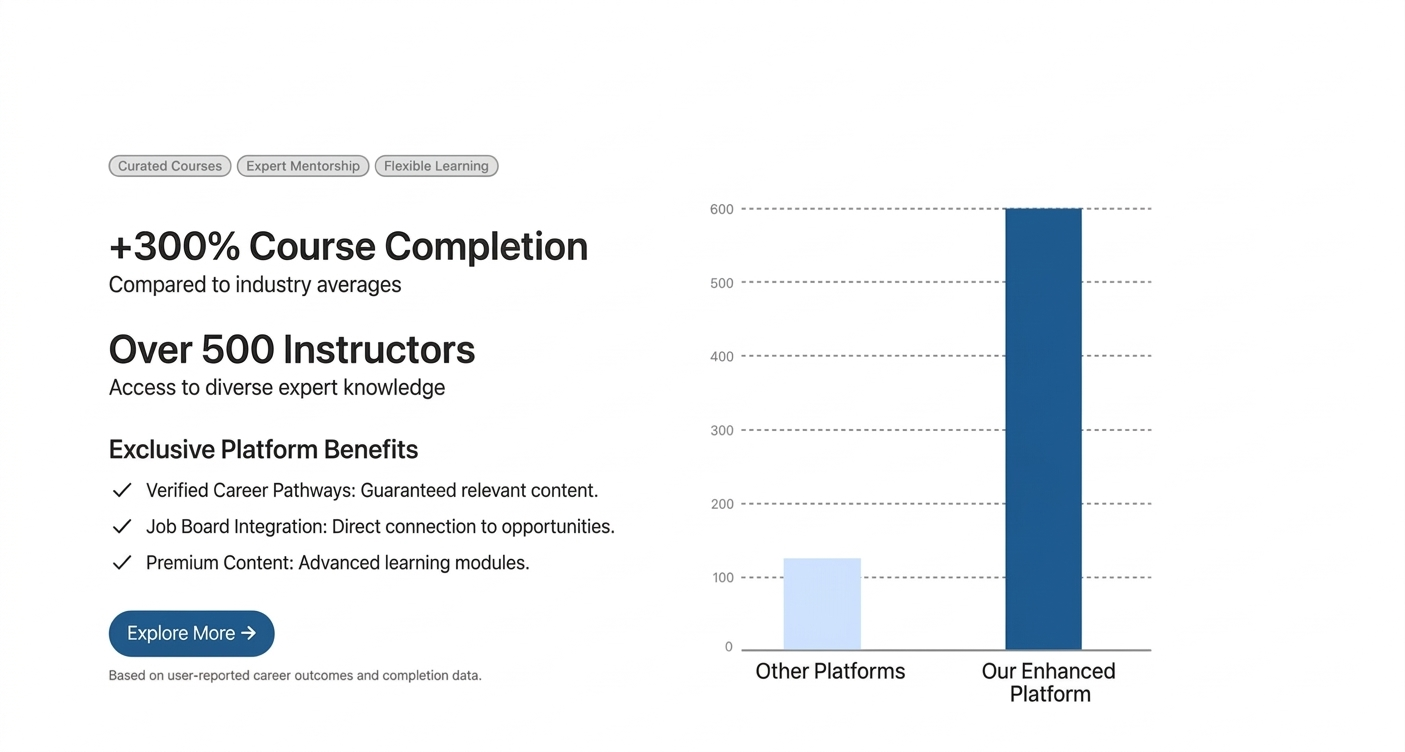
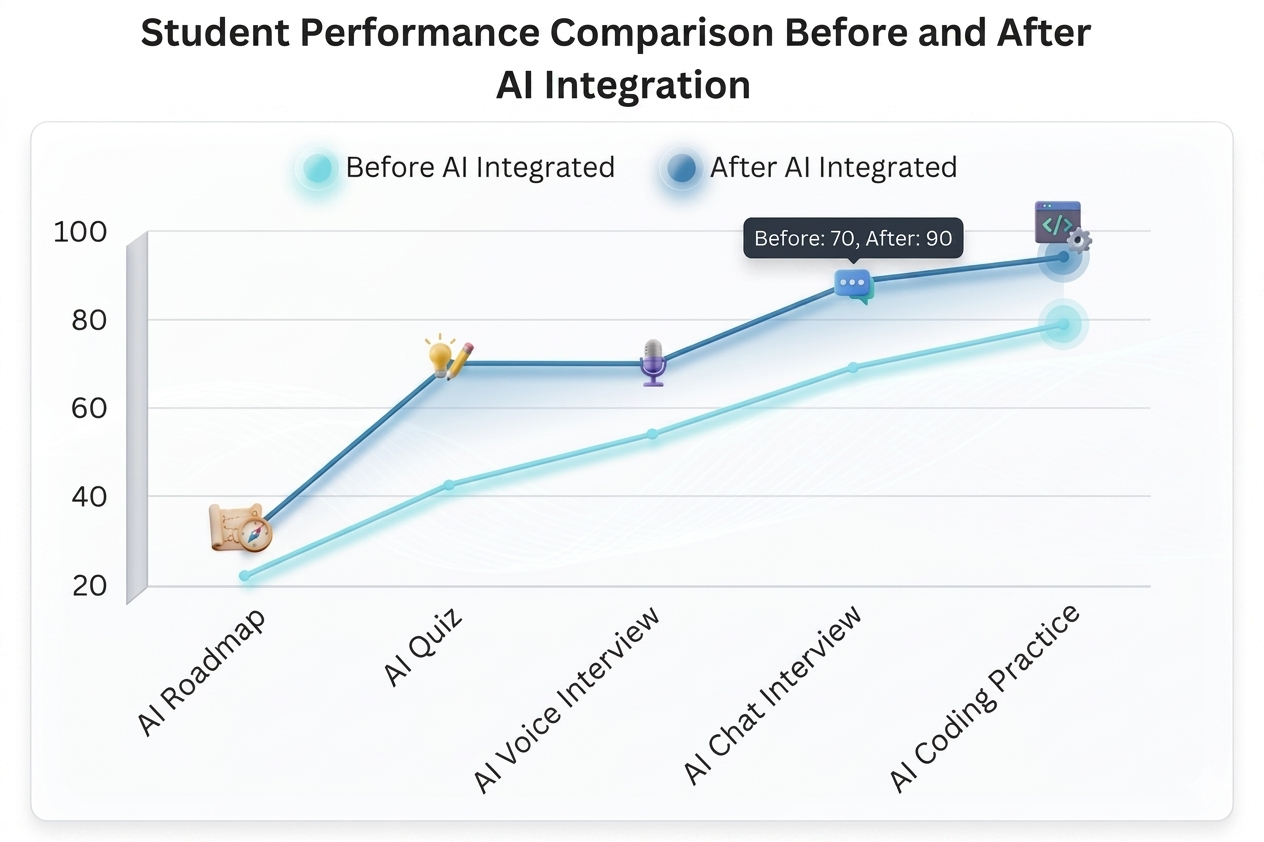
testing

diff --git a/client/src/components/Footer.jsx b/client/src/components/Footer.jsx
@@ -148,73 +148,76 @@ const Footer = () => {
 
   return (
     <div>
-    <hr />
+      <hr />
       <footer className="bg-slate-950 text-white px-6 md:px-16 lg:px-24 xl:px-32 pt-8 w-full md:text-[30px]">
-  <div className="flex flex-col md:flex-row justify-between w-full gap-10 border-b border-gray-500/30 pb-6">
-    
-    <div className="md:max-w-56 ">
-      <img src={first} alt="" className="md:h-15 rounded-2xl" />
-      <p className="mt-6 text-sm md:text-[15px] text-gray-300">
-        “Empowering the future with AI that learns, adapts, and transforms
-        possibilities into reality.” <br /><br />
-        “Where human creativity meets artificial intelligence to redefine
-        innovation.”
-      </p>
-    </div>
+        <div className="flex flex-col md:flex-row justify-between w-full gap-10 border-b border-gray-500/30 pb-6">
 
-    <div className="flex-1 flex items-start md:justify-end gap-20">
-      
-      <div>
-        <h2 className="font-semibold mb-5 text-white">Company</h2>
-        <ul className="text-sm space-y-2 text-gray-300 md:text-[15px]">
-          <li><a href="/c">Programming(DSA)</a></li>
-          <li><a href="/resume">Placementss Round </a></li>
-          <li><a href="/startups">Companies</a></li>
-          <li><a href="/ai/roadmap-generator">Ai Tools Services</a></li>
-        </ul>
-      </div>
+          <div className="md:max-w-56 ">
+            <img src={first} alt="" className="md:h-15 rounded-2xl" />
+            <p className="mt-6 text-sm md:text-[15px] text-gray-300">
+              “Empowering the future with AI that learns, adapts, and transforms
+              possibilities into reality.” <br /><br />
+              “Where human creativity meets artificial intelligence to redefine
+              innovation.”
+            </p>
+          </div>
 
-      <div>
-        <h2 className="font-semibold text-white mb-5">
-          Subscribe to our newsletter
-        </h2>
-        <div className="text-sm space-y-2 text-gray-300">
-          <p>
-            The latest news, articles, and resources, sent to your inbox weekly.
-          </p>
+          <div className="flex-1 flex items-start md:justify-end gap-20">
 
-          <form onSubmit={handleSubmit} className="flex items-center gap-2 pt-4">
-            <input
-              className="border border-gray-500/30 bg-black text-white placeholder-gray-400 focus:ring-2 ring-indigo-600 outline-none w-full max-w-64 h-9 rounded px-2"
-              type="email"
-              placeholder="Enter your email"
-              value={email}
-              onChange={(e) => setEmail(e.target.value)}
-              required
-            />
+            <div>
+              <h2 className="font-semibold mb-5 text-white">Company</h2>
+              <ul className="text-sm space-y-2 text-gray-300 md:text-[15px]">
+                <li><a href="/c">Programming(DSA)</a></li>
+                <li><a href="/resume">Placementss Round </a></li>
+                <li><a href="/startups">Companies</a></li>
+                <li><a href="/ai/roadmap-generator">Ai Tools Services</a></li>
+              </ul>
+            </div>
 
-            <button
-              type="submit"
-              disabled={loading}
-              className="bg-indigo-600 w-24 h-9 text-white rounded disabled:opacity-50"
-            >
-              {loading ? "Subscribing..." : "Subscribe"}
-            </button>
-          </form>
+            <div>
+              <h2 className="font-semibold text-white mb-5">
+                Subscribe to our newsletter
+              </h2>
+              <div className="text-sm space-y-2 text-gray-300">
+                <p>
+                  The latest news, articles, and resources, sent to your inbox weekly.
+                </p>
+
+                <form
+                  onSubmit={handleSubmit}
+                  className="flex flex-col md:flex-row items-stretch md:items-center gap-2 pt-4 w-full"
+                >
+                  <input
+                    className="border border-gray-500/30 bg-black text-white placeholder-gray-400 focus:ring-2 ring-indigo-600 outline-none w-full md:max-w-64 h-10 rounded px-3"
+                    type="email"
+                    placeholder="Enter your email"
+                    value={email}
+                    onChange={(e) => setEmail(e.target.value)}
+                    required
+                  />
+
+                  <button
+                    type="submit"
+                    disabled={loading}
+                    className="bg-indigo-600 w-full md:w-24 h-10 text-white rounded disabled:opacity-50"
+                  >
+                    {loading ? "Subscribing..." : "Subscribe"}
+                  </button>
+                </form>
+              </div>
+            </div>
+
+          </div>
         </div>
-      </div>
 
-    </div>
-  </div>
-
-  <p className="pt-4 text-center text-xs md:text-[20px] pb-1 text-gray-400">
-    Copyright 2025 ©{" "}
-    <a href="https://prebuiltui.com" className="text-white">
-      Intellicore.Ai
-    </a>{" "}
-    - All Rights Reserved.
-  </p>
-</footer>
+        <p className="pt-4 text-center text-xs md:text-[20px] pb-1 text-gray-400">
+          Copyright 2025 ©{" "}
+          <a href="https://prebuiltui.com" className="text-white">
+            Intellicore.Ai
+          </a>{" "}
+          - All Rights Reserved.
+        </p>
+      </footer>
     </div>
   );
 };

diff --git a/client/src/components/Best.jsx b/client/src/components/Best.jsx
@@ -124,7 +124,11 @@ const Best = () => {
       </div>
    
     </section>
-       <img src={banner} alt="" className='md:w-320 w-66 mx-auto md:h-170 h-60 ml-13 md:ml-50 -mt-30' />
+<img
+  src={banner}
+  alt=""
+  className="mx-auto -mt-10 w-[90%] sm:w-[80%] md:w-[60%] lg:w-[50%] rounded-2xl h-auto md:h-100  object-contain"
+/>
        <br />
     </>
   )

diff --git a/client/src/components/Description.jsx b/client/src/components/Description.jsx
@@ -176,7 +176,7 @@ const Description = () => {
 
       {/* Small lines */}
       <div className="flex flex-wrap justify-center gap-6 mb-8">
-        {Array.from({ length: 6 }).map((_, i) => (
+        {Array.from({ length: 4 }).map((_, i) => (
           <div key={i} className="w-24 h-[2px] bg-gray-400"></div>
         ))}
       </div>